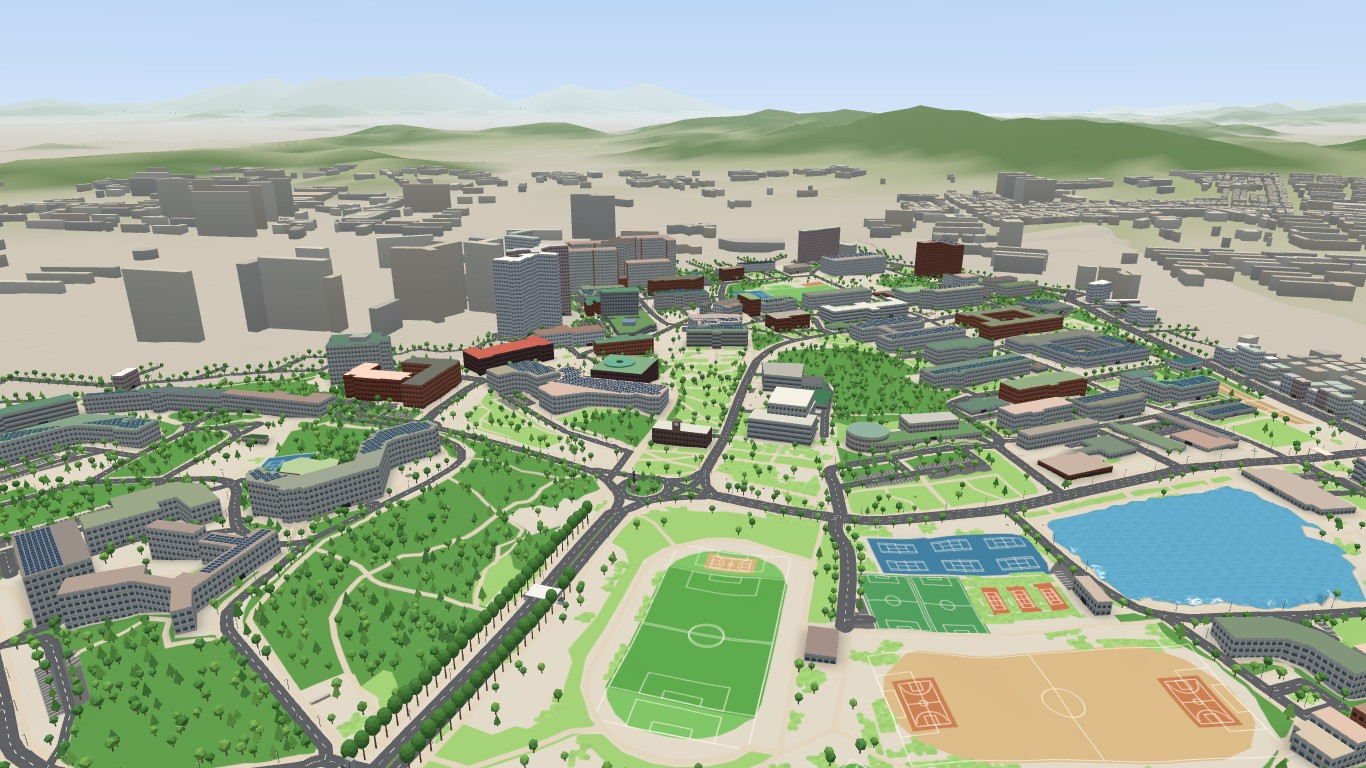
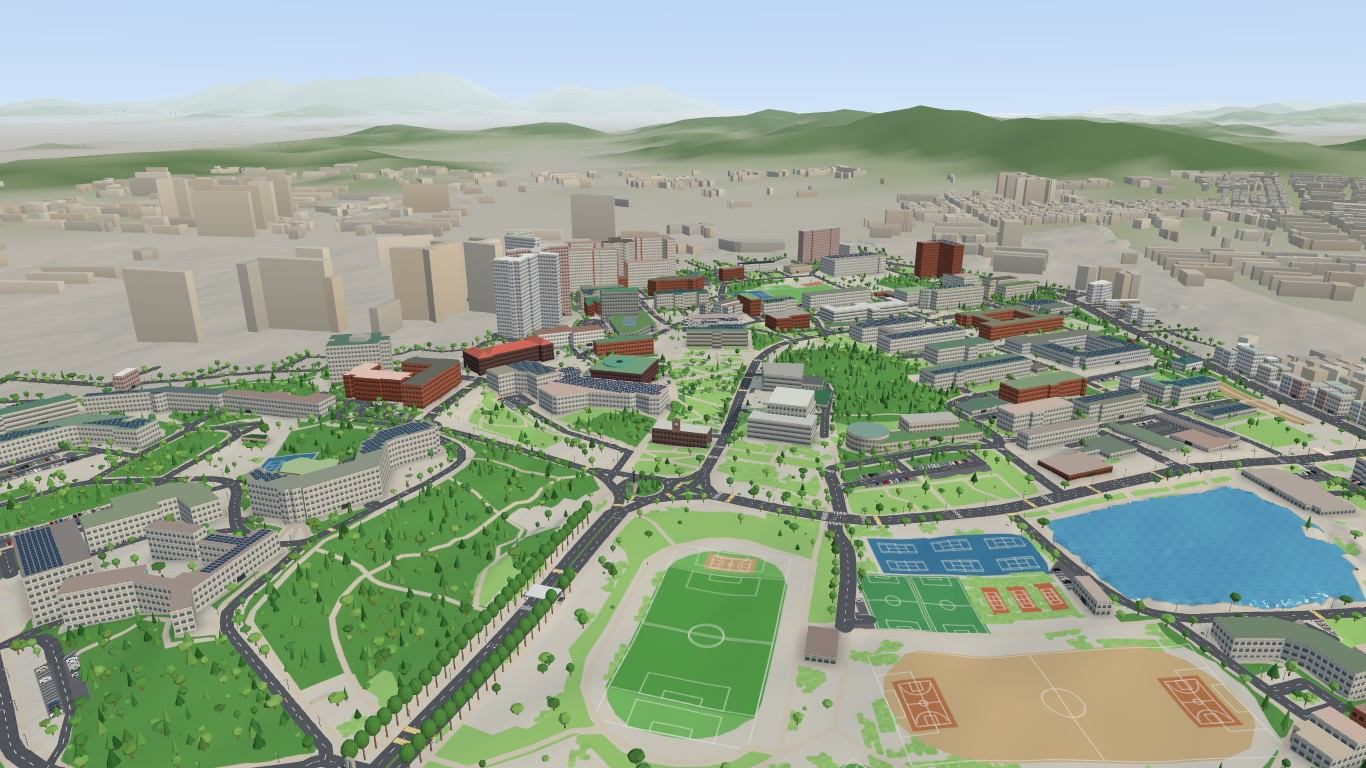
확인과 기록: fps, 지각 모드 성공·실패, 캡처

diff --git a/docs/진행상황.md b/docs/진행상황.md
@@ -12,7 +12,7 @@
 - [3] 도로 디테일: 끝남. scripts/build_road_marks.py(OSM 횡단보도 길·traffic_calming·차도 태그) → data/road-marks.json, assets/js/roadmarks.js가 지형 따라 휘는 얇은 메시로 그림. 횡단보도 101곳, 과속방지턱 57곳(OSM 61개 중 차도 6m 안), 정지선 171곳(세 갈래 이상 교차로로 들어오는 차로), 방향 화살표 194개(차로 2개 이상·간선 도로, 교차로 22m 안 비움). Overpass 첫 요청은 시간 초과, 두 번째에 받음. 회전교차로 태그는 OSM에 없어 따로 처리 안 함. 캡처 docs/captures/도로-*.jpg.
 - [4] 나무 다양화: 끝남. 둥근 활엽수 1,993 + 넓게 퍼진 활엽수 1,314 + 관목 629 + 원뿔 침엽수 942 + 가늘고 키 큰 침엽수 776(전체 5,654, 줄기 5,025). 크기 0.72~1.42배, 수관 색 8가지, 침엽수는 조금 더 짙게. 차도 옆·공원·숲마다 종류 비율 다름(시각적 다양성용 임의). 진입로 가로수는 그대로. 정사영상 수관 크기 반영은 못 함(나무 한 그루씩 위치·크기를 읽는 근거 작업이 필요해 시간상 뺌 → 근거 없음). 캡처 docs/captures/나무-다양화.jpg.
 - [5] 생동감: 끝남. assets/js/life.js: 주차장 칸의 60%(임의)에 승용차 536대(색 9가지, 로고 없음, 충돌 있음, 그림자는 받기만), 차도 그래프에서 찾은 2,093m 순환로를 25km/h로 도는 셔틀버스 2대(낮음 1대, 앞 16m·둘레 9m 안에 굴착기가 있으면 멈춤, 굴착기는 버스를 통과 못 하고 조용히 밀림), 보행로 학생 40명(낮음 14명, 큰 머리·셔츠·가방의 귀여운 저폴리). 학생은 굴착기의 앞 2초 경로가 12m 안이면 멈추고 옆으로 5m 비킴, 마지막으로 3.4m 안에는 절대 들어가지 않음(시험: 6·11·20·33m/s로 정면 돌진 40회 최소 거리 3.4m, 굴착기 몸체 반폭보다 멂). 미션 장소·출발점·교수님 자리 둘레 9~14m는 비우고, 연출 중에는 교수님·굴착기 30m 안 학생·버스를 숨김. 주차장에는 나무를 심지 않게 바꿈. 그리기 시간 +2.2ms(정문 출발).
-- [6] 확인과 보고: (아직)
+- [6] 확인과 보고: 끝남. 콘솔 오류 없음(새 탭에서 처음부터 확인). 정문 출발 1366×768 품질 높음 60.1fps(화면 fps 표시도 "60 fps", rAF로 4초 잼). 품질 낮음은 미리보기 창이 그 사이 뒤로 숨어 rAF가 멈춰 fps를 못 잼 → 그리기 시간으로 비교: 높음 15.1ms / 낮음 11.3ms(한 프레임 갱신 포함 높음 16.1ms / 낮음 11.0ms), 낮음이 높음보다 가벼움. 지각 모드 성공 1회(A+, 완료한 미션 5/5) + 시간 초과 실패 1회(F, 2/5). 크레딧에 먼 지형(AWS Terrain Tiles ±15km)·둘레 건물(OSM) 추가, README 지각 모드 설명·docs/데이터-근거-요약.md 갱신.
 
 ## 이전: realism 밤샘 작업
 

diff --git a/제작로그.md b/제작로그.md
@@ -141,3 +141,6 @@
 
 ## 2026-10-25 — 생동감 (detail 브랜치)
 - 주차장에 승용차 536대(충돌), 차도 그래프에서 찾은 2.1km 순환로를 도는 셔틀버스 2대(굴착기가 다가오면 멈춤), 보행로 학생 40명(큰 머리·셔츠·가방). 학생은 굴착기 앞 2초 경로를 보고 미리 비키고 3.4m 안으로는 절대 안 들어옴(정면 돌진 시험 40회). 품질 낮음은 학생 14명·버스 1대. 주차장엔 나무를 심지 않음.
+
+## 2026-10-25 — 확인과 보고 (detail 브랜치)
+- 콘솔 오류 없음. 정문 출발 1366×768 품질 높음 60.1fps. 낮음은 창이 숨어 fps를 못 재고 그리기 시간으로 비교(높음 15.1ms, 낮음 11.3ms). 지각 모드 성공(A+, 5/5)·시간 초과 실패(F, 2/5) 각 1회. 캡처 docs/captures/(기념물·도로단차·시계탑·시간초과·조명·바깥 풍경·도로·나무·생동감).
